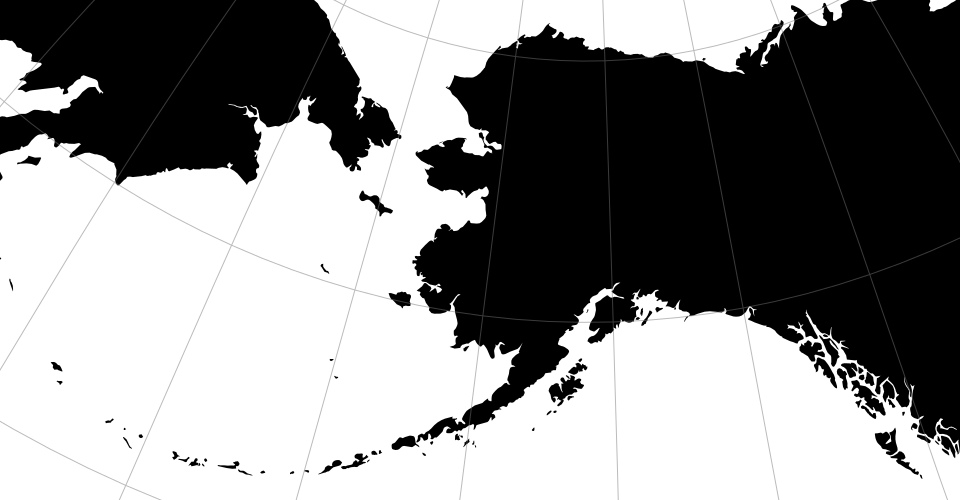
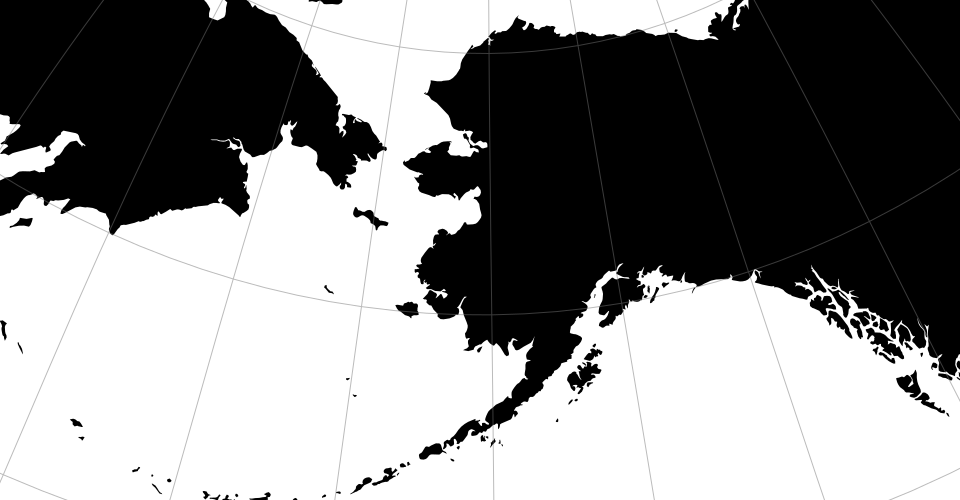
Alaska clipAngle(30) angle(7.8)
fixes https://github.com/d3/d3-geo-projection/issues/174

diff --git a/src/modifiedStereographic.js b/src/modifiedStereographic.js
@@ -75,7 +75,8 @@ export function modifiedStereographicAlaska() {
   return modifiedStereographic(alaska, [152, -64])
       .scale(1500)
       .center([-160.908, 62.4864])
-      .clipAngle(25);
+      .clipAngle(30)
+      .angle(7.8);
 }
 
 export function modifiedStereographicGs48() {
